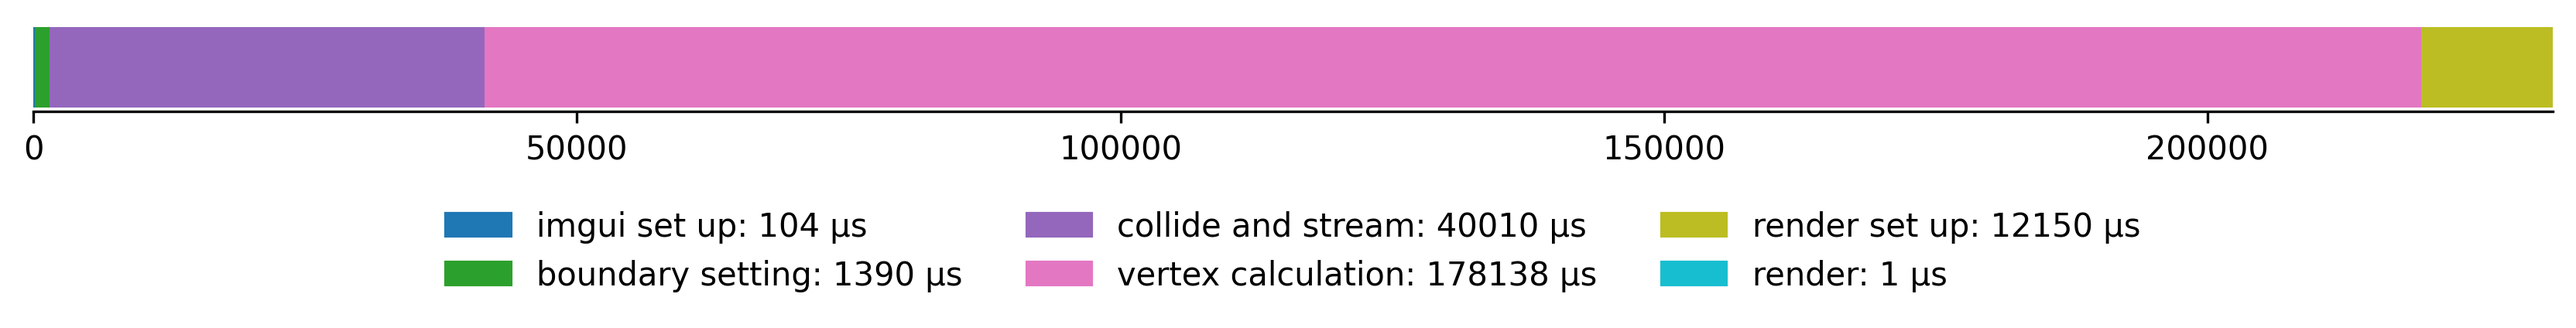
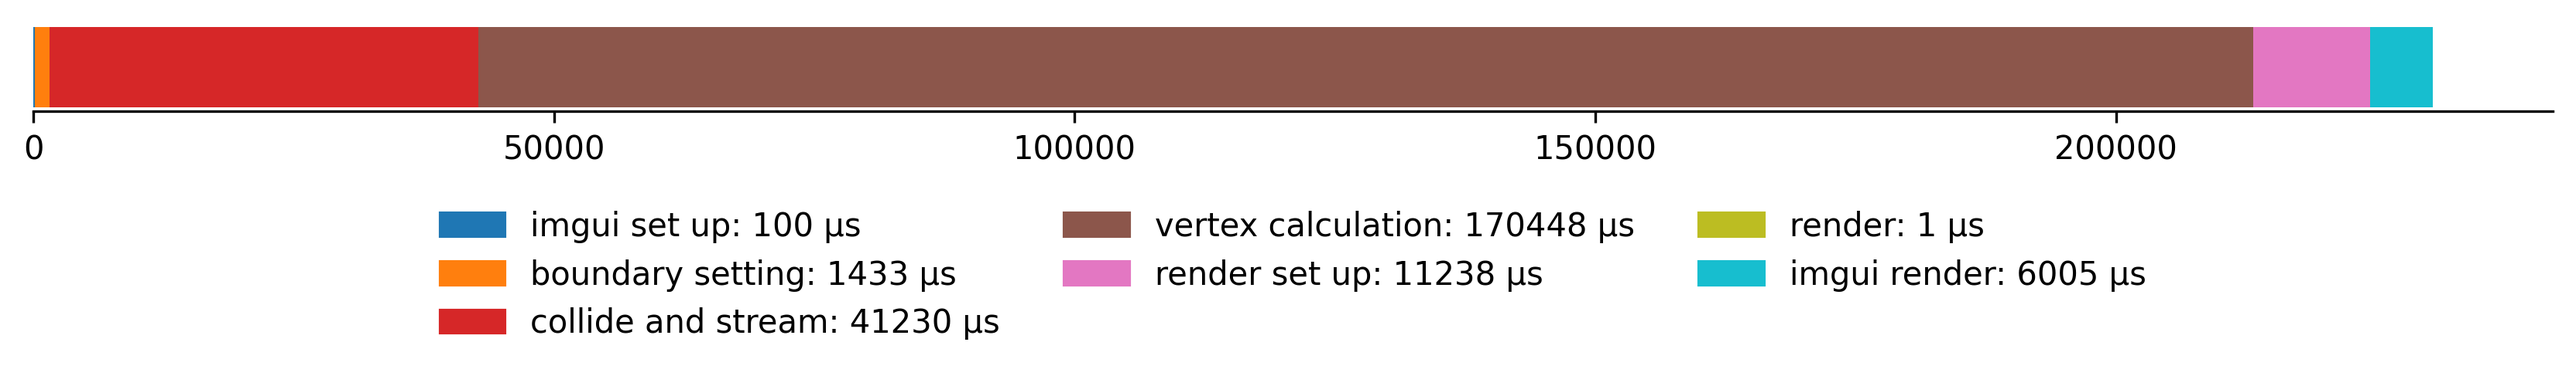
added imgui render

diff --git a/main/profile_main.py b/main/profile_main.py
@@ -2,6 +2,7 @@
 # take main.cpp and create a new file called main_profiled.cpp
 # that is copy of main.cpp with code for profiling added in.
 #
+# this script won't work without running set_up first
 
 # for compiling and running main_profiled.cpp
 import subprocess
@@ -25,7 +26,8 @@ def insert_profiling( object_path, target_path ):
                  'collide and stream',
                  'vertex calculation',
                  'render set up',
-                 'render' ]
+                 'render',
+                 'imgui render' ]
 
     profiled_content = []
 
@@ -46,45 +48,31 @@ def insert_profiling( object_path, target_path ):
         for section in sections:
 
             if stripped_line == 'while ( !glfwWindowShouldClose( window ) ) {':
-
                 profiled_content.append(f'{ indent }for ( size_t i = 0; i < { profile_steps }; ++i ) {{\n' )
-
                 matched = True
-
                 break
 
-            if stripped_line == 'bool simulation_running = false;':
-
+            elif stripped_line == 'bool simulation_running = false;':
                 profiled_content.append( f'{ indent }bool simulation_running = true;\n' )
-
                 matched = True
-
                 break
 
             elif stripped_line == f"// start { section }":
-
                 cpp_var = section.replace( ' ', '_' )
-
                 profiled_content.append( f"{ indent }auto start_{ cpp_var } = std::chrono::high_resolution_clock::now();\n"  )
-
                 matched = True
-
                 break
 
             elif stripped_line == f"// end { section }":
-
                 cpp_var = section.replace( ' ', '_' )
-
                 profiled_content.append( f"{ indent }auto end_{ cpp_var } = std::chrono::high_resolution_clock::now();\n" )
-
+                
                 if ofstream_defined == False:
                     profiled_content.append( f"{ indent }std::ofstream file(\"profile_output.txt\");\n" )
                     ofstream_defined = True
 
                 profiled_content.append( f"{ indent }file << \"{ section }: \" <<  std::chrono::duration_cast<std::chrono::microseconds>( end_{ cpp_var } - start_{ cpp_var } ).count() << std::endl; \n" ) 
-                
                 matched = True
-                
                 break
         
         if matched == False:
@@ -212,7 +200,7 @@ def compile_and_run_windows():
 
     print("✅ Compilation complete.")
 
-    run_command = f"./{output_file}"
+    run_command = f".\{output_file}"
     print(f"🚀 Running {run_command}...")
     subprocess.run(run_command, shell=True)
 
